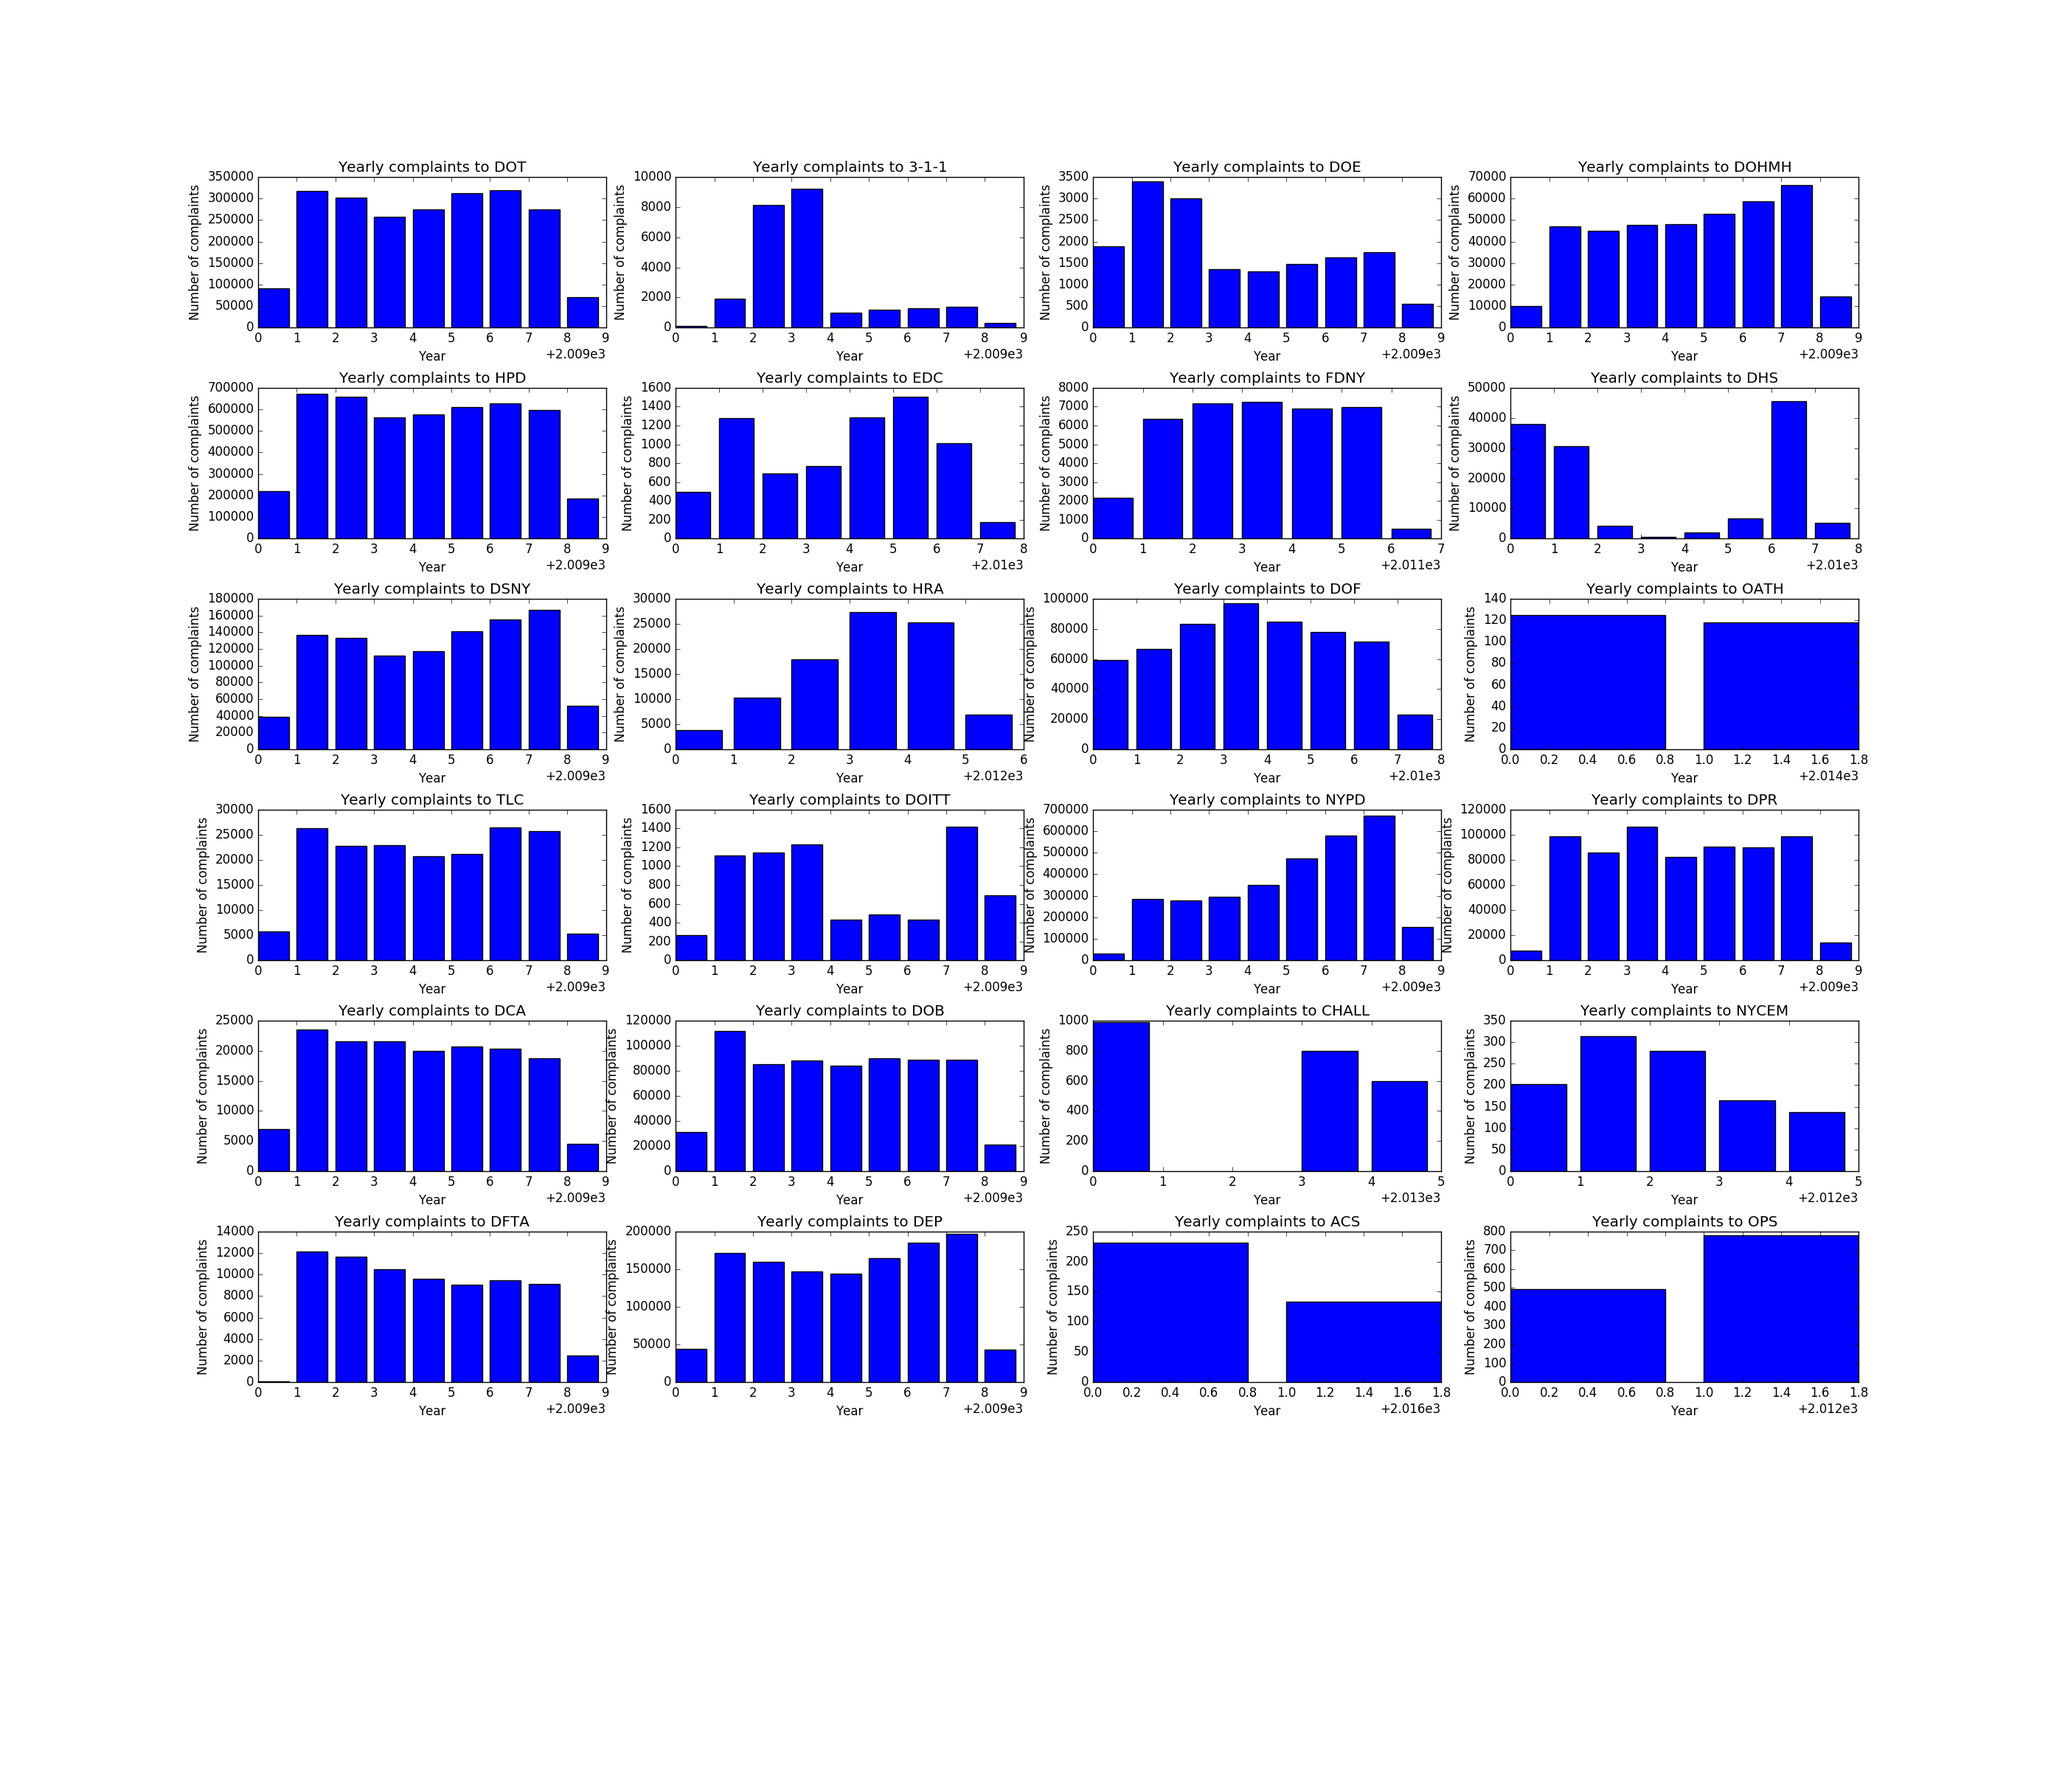
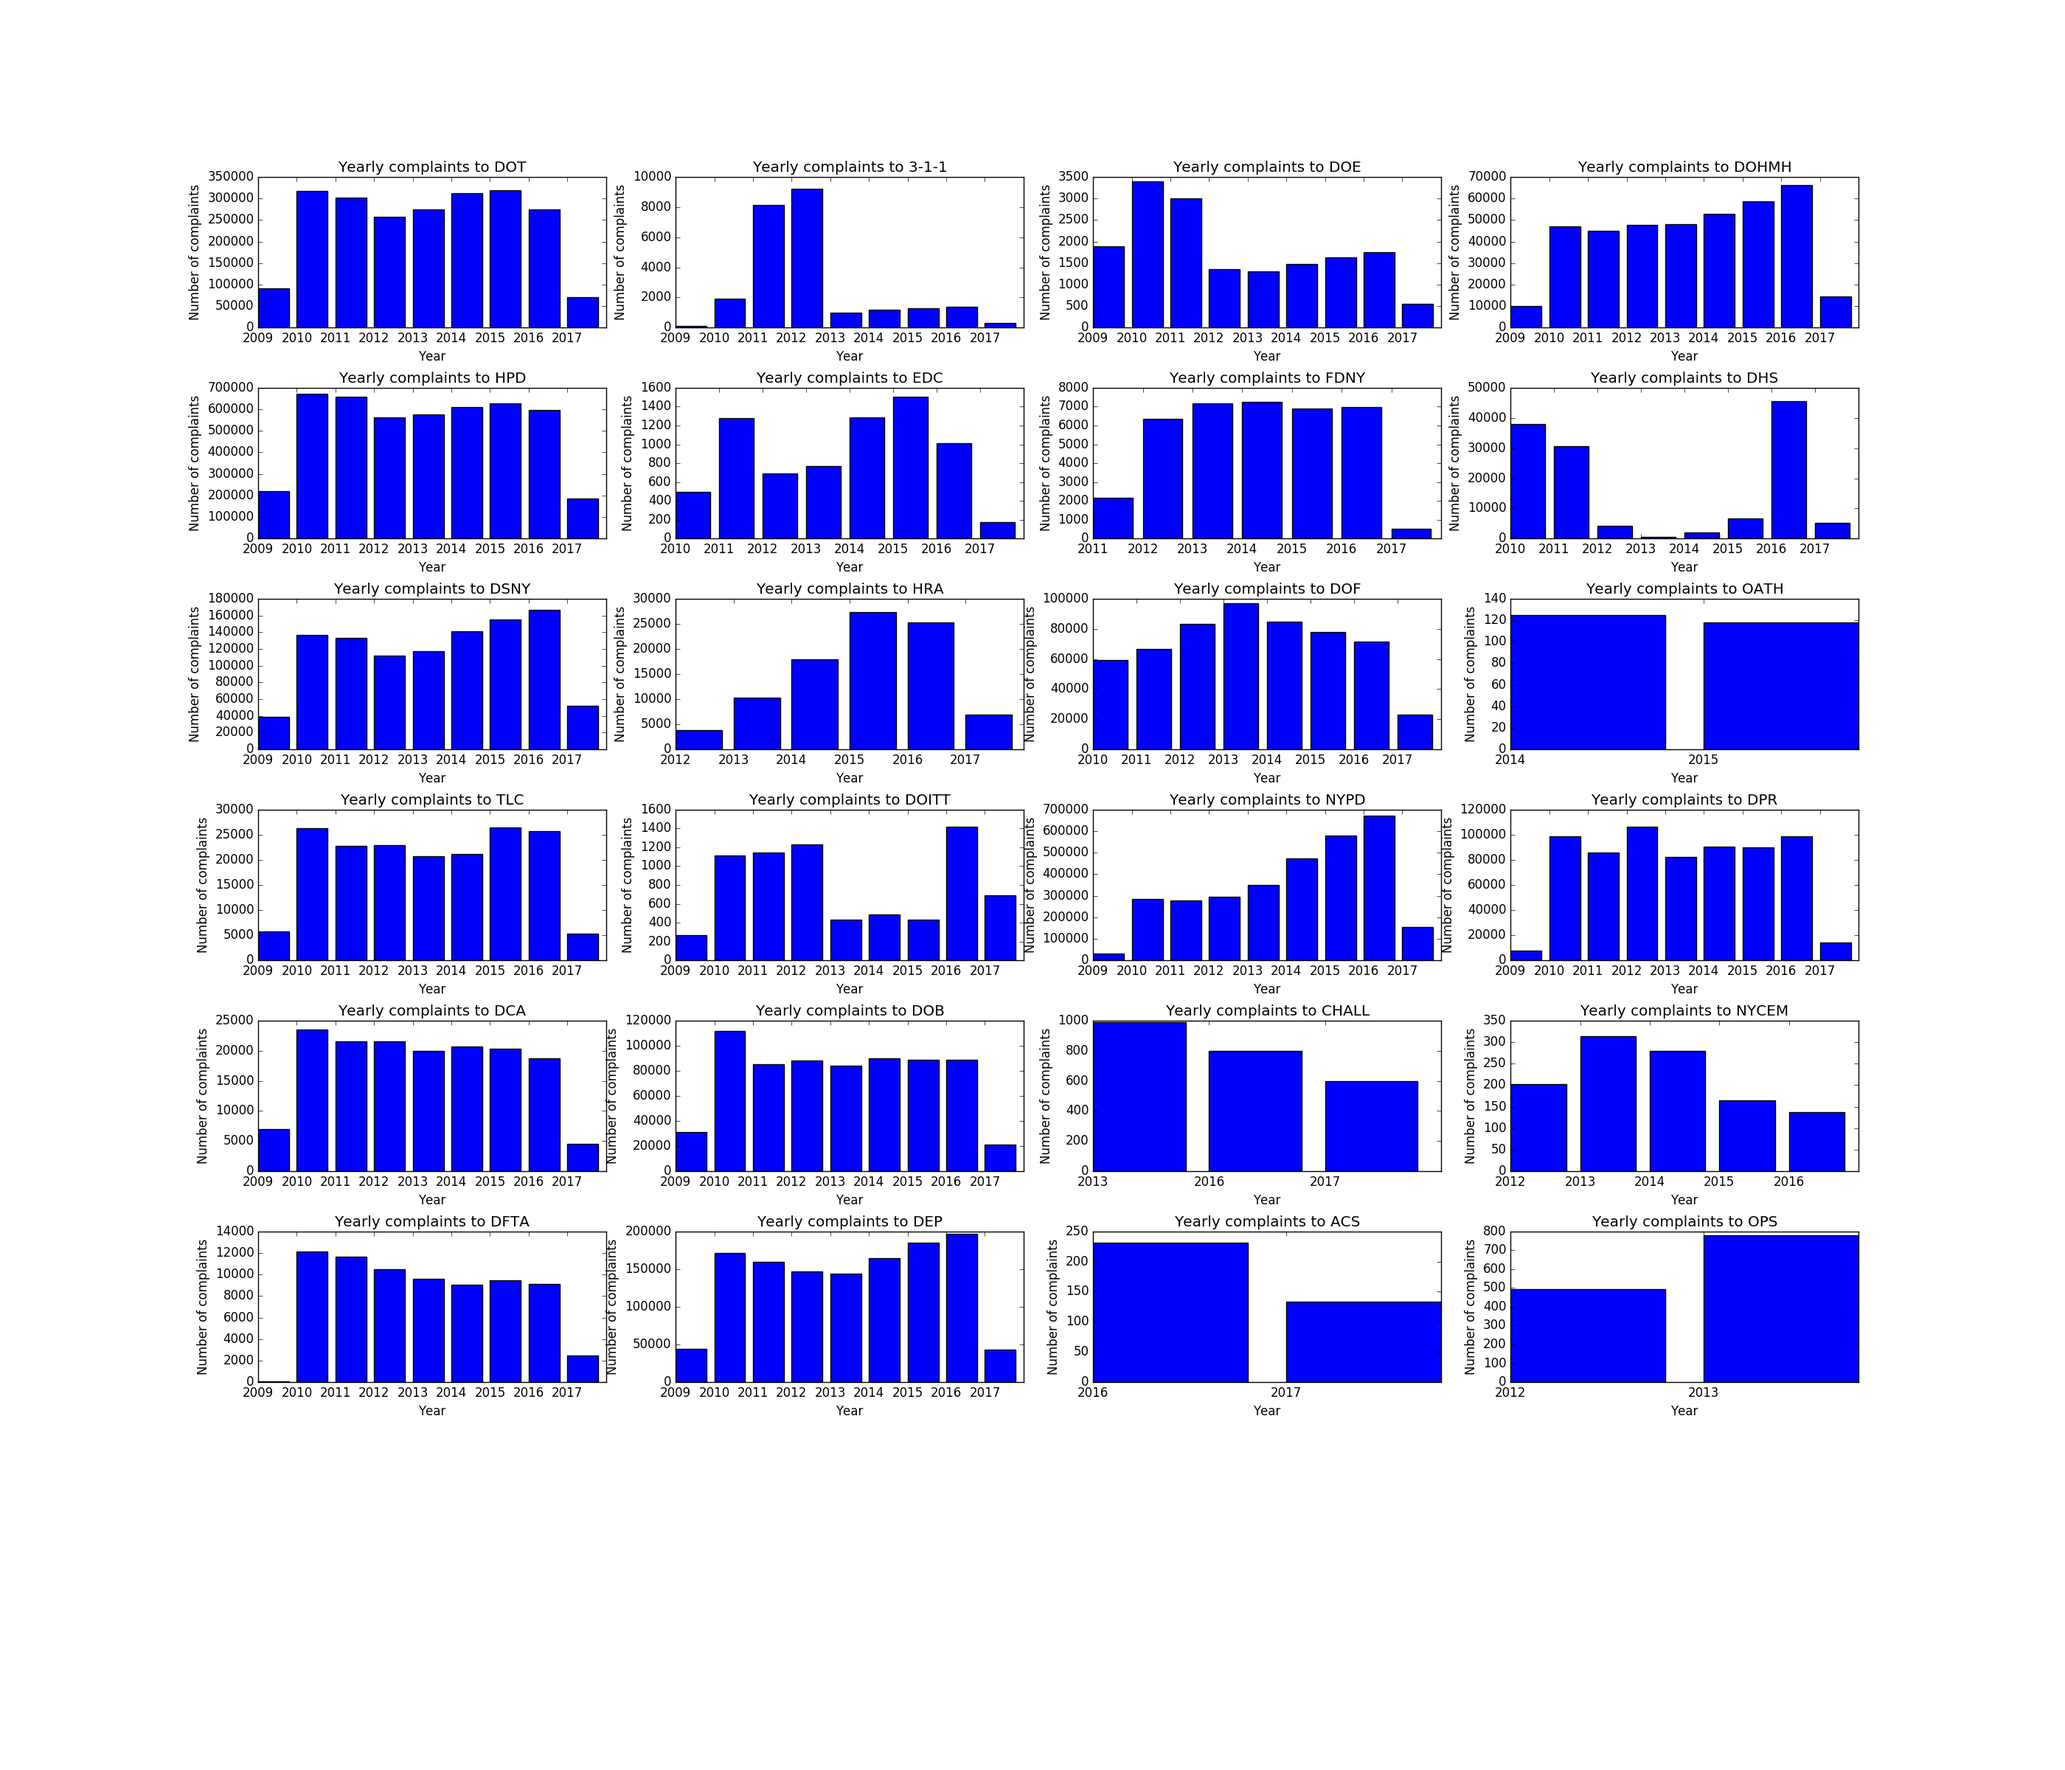
Corrected date issue

diff --git a/src/visualize_result.py b/src/visualize_result.py
@@ -1,10 +1,10 @@
+
 # coding: utf-8
 
 import pandas as pd
 import matplotlib.pyplot as plt
 from datetime import datetime
-import matplotlib
-matplotlib.use('Agg')
+import numpy as np
 #Util functions
 def str2datetime(x):
 
@@ -22,17 +22,17 @@ def clean_zip(x):
 
     return x
 
-
 #Plot number of complaints by year
 year = pd.read_csv('../output/ycount.out', sep='\t', header=None)
 year.columns = ['year','count']
+year = year.sort_values('year')
 plt.figure(figsize=[12,12])
-plt.bar(year['year'],year['count'])
+plt.bar(np.arange(len(year['count'])),year['count'])
 plt.title('Number of complaints by year')
 plt.ylabel('Number of complaints')
+plt.xticks(np.arange(len(year['count'])),year['year'].apply(str))
 plt.xlabel('Year')
 plt.savefig('yearcount.png')
-
 
 #Plot number of complaints by date
 daily = pd.read_csv('../output/ymdcount.out', sep='\t', header=None)
@@ -58,8 +58,8 @@ for n,i in enumerate(years):
     data = data.sort_values('count',ascending=False)
     data = data[:10]
     plt.subplot(3,3,n+1)
-    plt.barh([j for j in range(len(data['count']))],data['count'])
-    plt.yticks([j for j in range(len(data['count']))],data['agency'])
+    plt.barh(np.arange(len(data['count'])),data['count'])
+    plt.yticks(np.arange(len(data['count'])),data['agency'])
     plt.title('Top 10 agencies with the most complaints in %s'%str(i))
     plt.xlabel('Count')
     plt.ylabel('Agency')
@@ -71,12 +71,15 @@ plt.figure(figsize=[28,24])
 plt.subplots_adjust(hspace=0.4)
 for n,i in enumerate(agencies):
     data = agency[agency['agency']==i].reset_index(drop=True)
+    data = data.sort_values('year')
     plt.subplot(7,4,n+1)
-    plt.bar(data['year'],data['count'])
+    plt.bar(np.arange(len(data['count'])),data['count'])
     plt.title("Yearly complaints to %s"%i)
     plt.xlabel("Year")
     plt.ylabel("Number of complaints")
+    plt.xticks(np.arange(len(data['count'])),data['year'].apply(str))
 plt.savefig('yearly_agency.png')
+
 
 #top 20 zipcode with the most complaints from 2009-2017
 zipyear = pd.read_csv('../output/zipcodey.out', sep='\t', header=None)
@@ -85,8 +88,8 @@ zipyear['zip'] = zipyear.zipcode.apply(lambda x: clean_zip(x))
 zipyear = zipyear[zipyear['zip']!='Invalid']
 top20 = zipyear.groupby(by=['zip'])['count'].sum().sort_values()[-20:]
 plt.figure(figsize=[12,12])
-plt.barh([i for i in range(20)],top20.values)
-plt.yticks([i for i in range(20)],top20.index)
+plt.barh(np.arange(20),top20.values)
+plt.yticks(np.arange(20),top20.index)
 plt.xlabel('Number of complaints')
 plt.ylabel('Zipcode')
 plt.title('Total number of complaints from 2009-2017')
@@ -97,11 +100,13 @@ plt.figure(figsize=[28,24])
 plt.subplots_adjust(hspace=0.4)
 for n,i in enumerate(top20.index):
     data = zipyear[zipyear['zip']==i].reset_index(drop=True)
+    data = data.sort_values('year')
     plt.subplot(7,4,n+1)
-    plt.bar(data['year'],data['count'])
+    plt.bar(np.arange(len(data['count'])),data['count'])
     plt.title("Yearly complaints in %s"%i)
     plt.xlabel("Year")
     plt.ylabel("Number of complaints")
+    plt.xticks(np.arange(len(data['count'])),data['year'].apply(str))
 plt.savefig('zip_year.png')
 
 #Number of complaints by borough and year
@@ -112,11 +117,13 @@ plt.figure(figsize=[28,24])
 plt.subplots_adjust(hspace=0.4)
 for n,i in enumerate(boroughs):
     data = borough[borough['borough']==i].reset_index(drop=True)
+    data = data.sort_values('year')
     plt.subplot(3,2,n+1)
-    plt.bar(data['year'],data['count'])
+    plt.bar(np.arange(len(data['count'])),data['count'])
     plt.title("Yearly complaints in %s"%i)
     plt.xlabel("Year")
     plt.ylabel("Number of complaints")
+    plt.xticks(np.arange(len(data['count'])),data['year'].apply(str))
 plt.savefig('borough_year.png')
 
 #top 20 city with the most complaints from 2009-2017
@@ -145,6 +152,5 @@ for n,i in enumerate(cyears):
     plt.title('Top 20 cities with the most complaints in %s'%str(i))
     plt.xlabel('Count')
     plt.ylabel('city')
-plt.savefig('cityyearly.png')
-
+plt.savefig('top20city.png')
 
